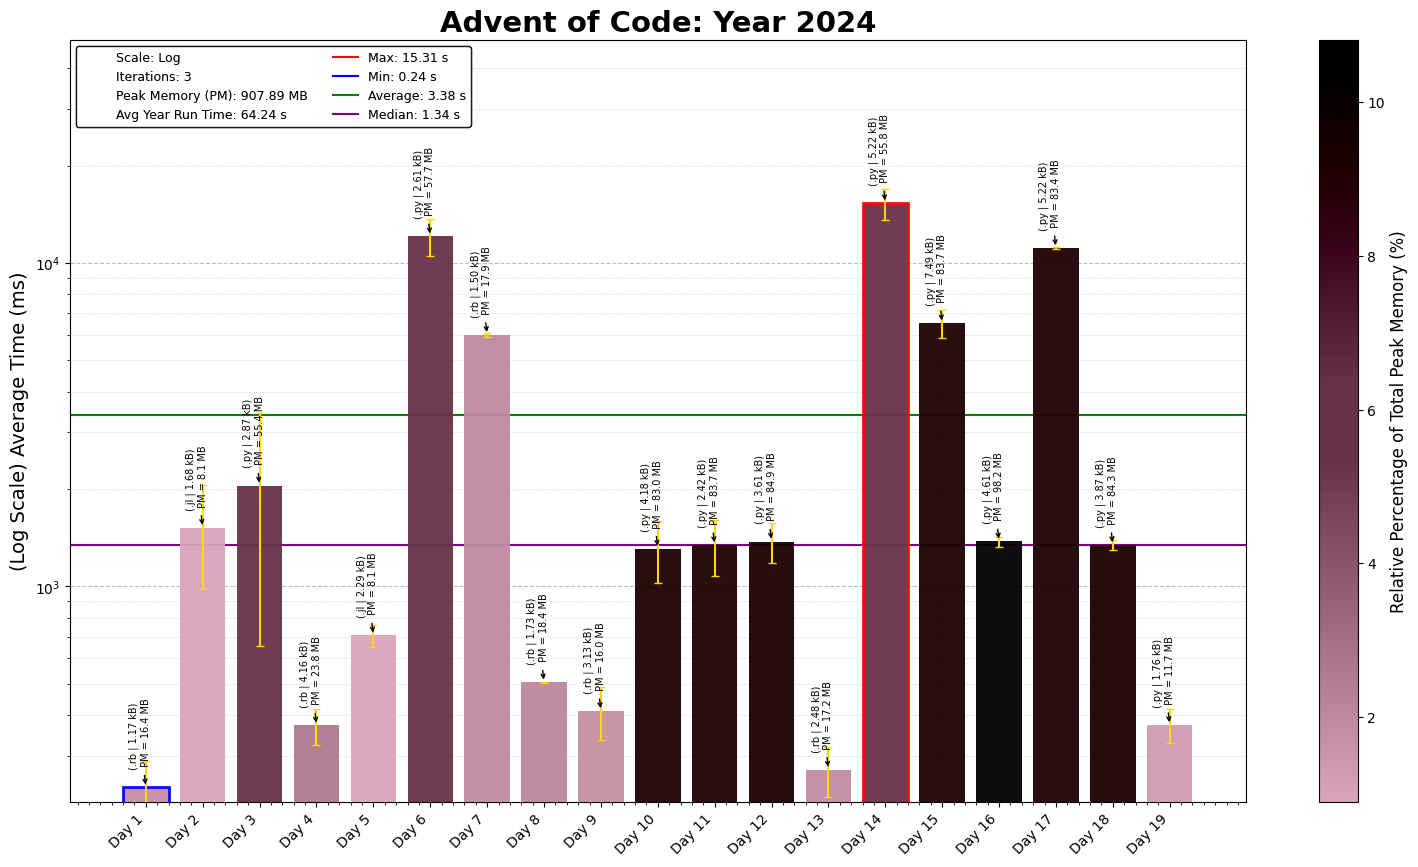
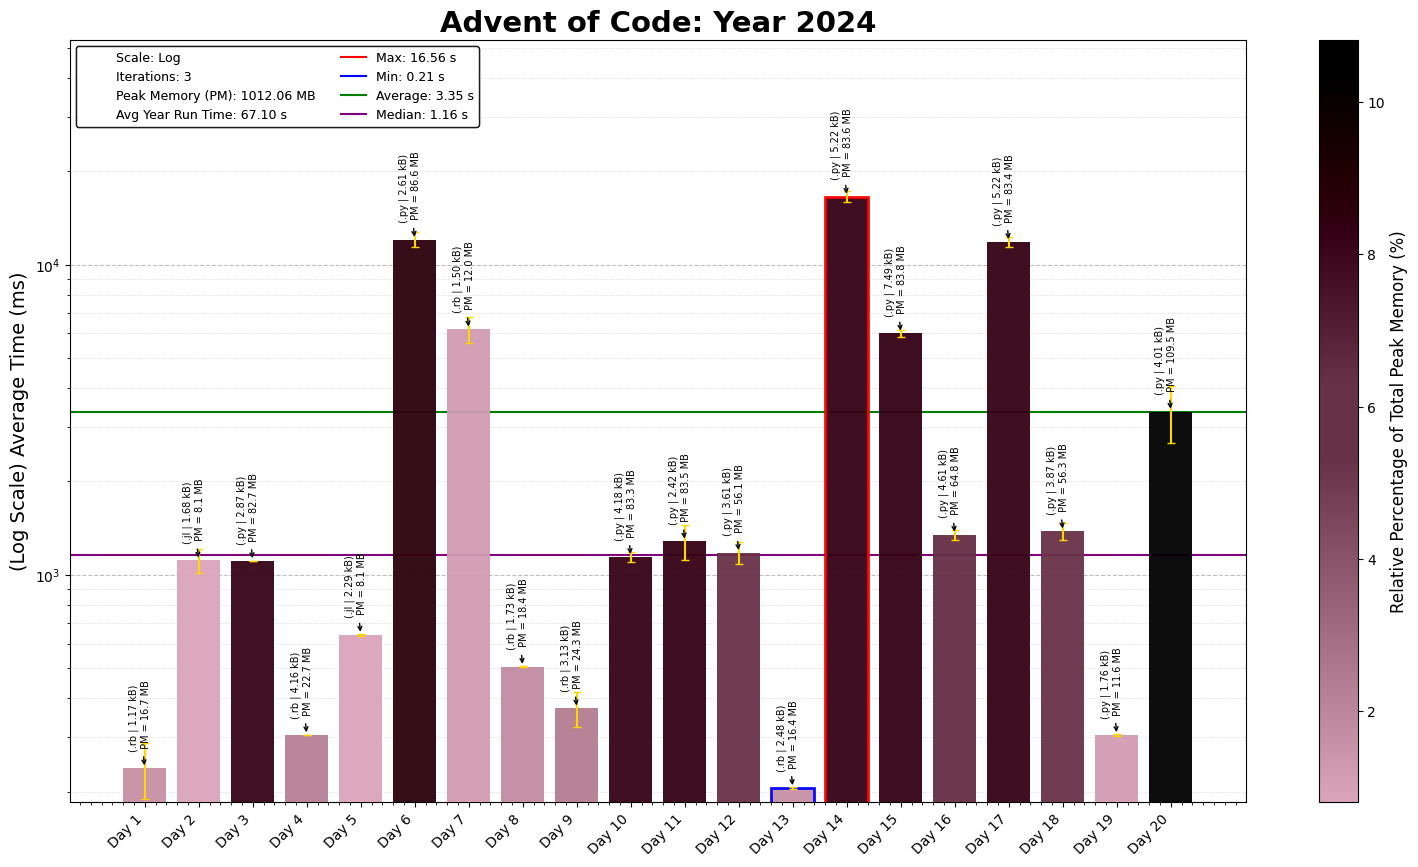
2024 Day 20

diff --git a/2024/20/2024Day20.py b/2024/20/2024Day20.py
@@ -1,0 +1,116 @@
+"""Advent of Code - Day 20, Year 2024
+Solution Started: Dec 20, 2024
+Puzzle Link: https://adventofcode.com/2024/day/20
+Solution by: abbasmoosajee07
+Brief: [Code/Problem Description]
+"""
+
+#!/usr/bin/env python3
+
+import os, re, copy, time
+import numpy as np
+import pandas as pd
+import matplotlib.pyplot as plt
+from collections import deque
+from scipy.spatial import KDTree
+
+start_time = time.time()
+# Load the input data from the specified file path
+D20_file = "Day20_input.txt"
+D20_file_path = os.path.join(os.path.dirname(os.path.abspath(__file__)), D20_file)
+
+# Read and sort input data into a grid
+with open(D20_file_path) as file:
+    input_data = file.read().strip().split('\n')
+
+def parse_grid(input_grid: list) -> tuple[set[tuple], tuple, tuple, tuple, set[tuple]]:
+    walls = set()
+    grid_bounds = (0, len(input_grid), 0, len(input_grid[0]))
+    for row_no, row in enumerate(input_grid):
+        # min_x, max_x, min_y, max_y
+        for col_no, char in enumerate(row):
+            if char == 'S':
+                start = (row_no, col_no)
+            elif char == 'E':
+                goal = (row_no, col_no)
+            elif char == '#':
+                walls.add((row_no, col_no))
+    return walls, start, goal, grid_bounds
+
+def bfs_shortest_path(start: tuple, goal: tuple, walls: set[tuple], grid_bounds: tuple) -> tuple[dict, int]:
+    min_x, max_x, min_y, max_y = grid_bounds
+    directions = [(-1, 0), (1, 0), (0, 1), (0, -1)]  # Up, Down, Right, Left
+
+    queue = deque([start])
+    visited = set([start])
+    parent = {start: None}  # Track parent nodes
+    path = {}
+    while queue:
+        current = queue.popleft()
+
+        if current == goal:
+            # Reconstruct path using parent mapping
+            reconstructed_path = []
+            while current:
+                reconstructed_path.append(current)
+                current = parent[current]
+            reconstructed_path.reverse()  # Reverse to make the path go forward
+
+            # Assign times in forward order
+            for t, cell in enumerate(reconstructed_path, start=2):
+                path[cell] = t - 1
+
+            return path, len(reconstructed_path) - 1  # Path and travel_time
+
+        for dx, dy in directions:
+            neighbor = (current[0] + dx, current[1] + dy)
+            if (
+                min_x <= neighbor[0] < max_x and
+                min_y <= neighbor[1] < max_y and
+                neighbor not in walls and
+                neighbor not in visited
+            ):
+                queue.append(neighbor)
+                visited.add(neighbor)
+                parent[neighbor] = current  # Track the parent
+
+    return None, -1  # No path found
+
+def manhattan_distance(point_1: tuple, point_2: tuple) -> int:
+    return abs(point_1[0] - point_2[0]) + abs(point_1[1] - point_2[1])
+
+def test_cheat_codes(init_path: dict, cheat_code=2) -> int:
+    pathway = list(init_path.keys())
+    times = list(init_path.values())
+
+    # Build a KDTree for efficient nearest-neighbor queries
+    tree = KDTree(pathway)
+    time_saved = 0
+
+    for i, start in enumerate(pathway):
+        # Query for all neighbors within cheat_code distance
+        indices = tree.query_ball_point(start, cheat_code)
+        for idx in indices:
+            close = pathway[idx]
+            abs_dist = manhattan_distance(start, close)
+            if abs_dist <= cheat_code:
+                open_portal = times[i]
+                close_portal = init_path[close]
+                time_diff = close_portal - open_portal - abs_dist
+                if time_diff >= 100:
+                    time_saved += 1
+    return time_saved
+
+walls, start, goal, grid_bounds = parse_grid(input_data)
+base_path, full_time = bfs_shortest_path(start, goal, walls, grid_bounds)
+
+if base_path:
+    time_saved_p1 = test_cheat_codes(base_path)
+    print("Part 1:", time_saved_p1)
+
+    time_saved_p2 = test_cheat_codes(base_path, 20)
+    print("Part 2:", time_saved_p2)
+else:
+    print("No valid path found.")
+
+print(time.time() - start_time)

diff --git a/2024/README_2024.md b/2024/README_2024.md
@@ -23,3 +23,4 @@ This repository contains coding solutions for the 2024 Advent of Code. Its the f
 17. **Day 17- Chronospatial Computer**: *Python* | Build an assembly computer with 8 main functions. Create a sort of disassembler that brute forces the solution
 18. **Day 18- RAM Run**: *Python* | Path finder in a 2D grid, using BFS algorithm. Added a binary search to improve speed instead of initial brute force, resulting in a 8x speed up.
 19. **Day 19- Linen Layout**: *Python* | Building words in using a group of blocks, finished in python cos it was easy.
+20. **Day 20- Race Condition**: *Python* | Almost an inverse of Day 18, where I brute forced a solution for Part 1:, by removing individual walls, which worked but took almost 5 mins so switched approaches. Switching to the manhattan approach between start and end cheats, resulted in a 10x speed up. Adding the KDT function for iterating through times, further sped it up by 10x, for a 100x speed up overall.
